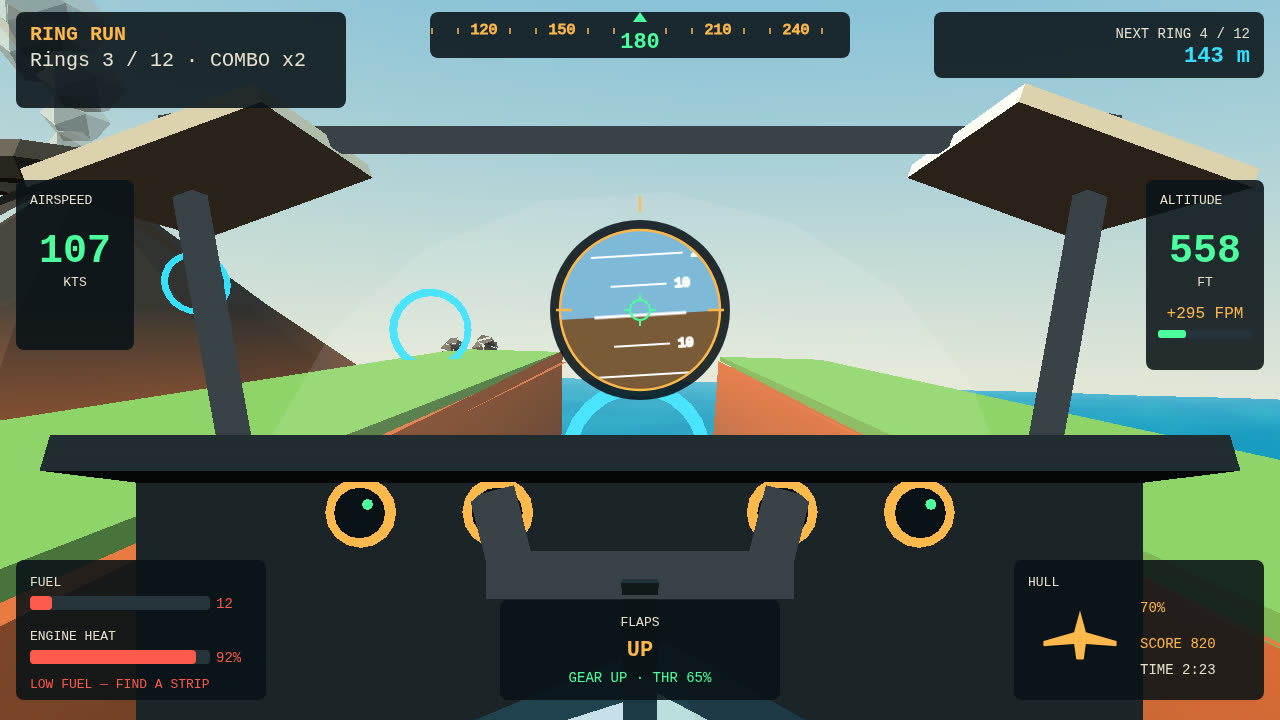
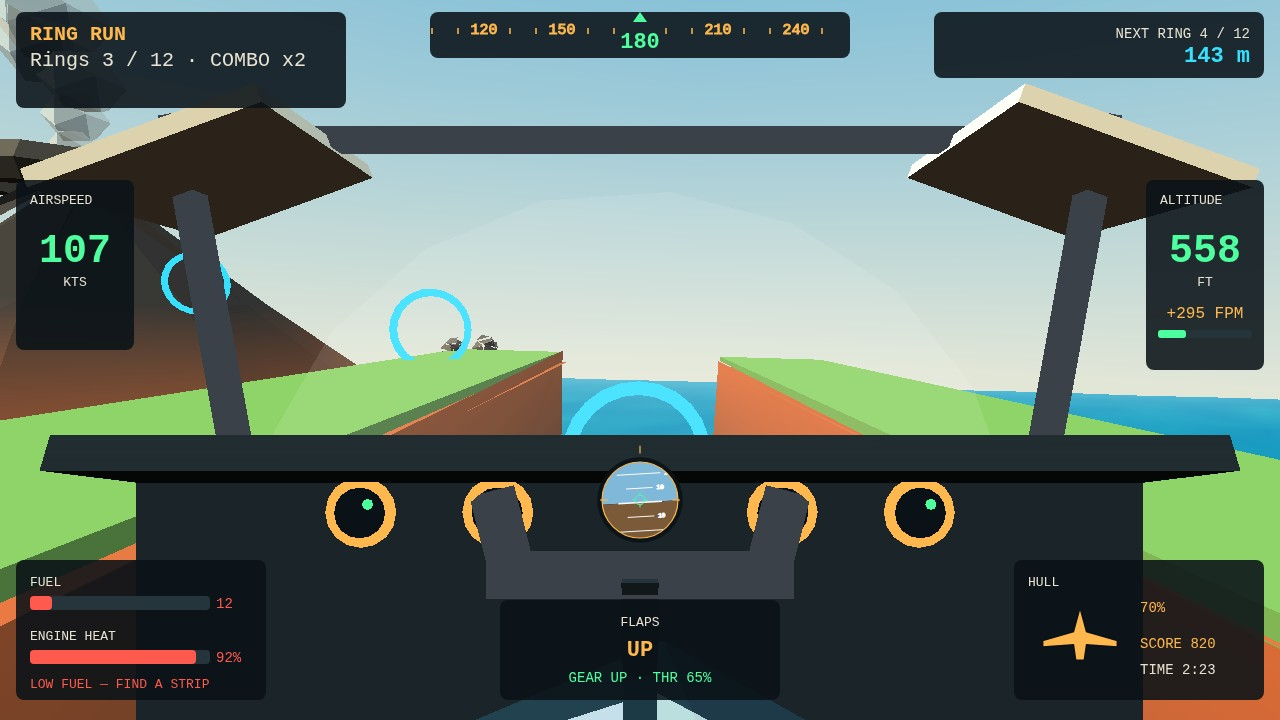
Fix shot 2: dock cockpit attitude indicator in dial row (640,500)

diff --git a/game/js/hud.js b/game/js/hud.js
@@ -8,7 +8,10 @@
 // v2 (Claude review of the v1 frames): the horizon disc no longer sits
 // big in the middle of a chase view, where it covered the plane and the
 // rings. In chase it docks small at bottom centre, above the flaps
-// panel; the full-size disc lives only in the cockpit view. The compass
+// panel. v2 light fix (26 Nov, shot 2): the cockpit view docked the disc
+// the same way, in the dial row at (640, 500) — the chase dock (640, 548)
+// would hide the middle of the yoke handle bar. The full-size centre
+// disc is gone from both views.
 // is a true linear tape (degrees spaced by degrees, not by label), the
 // mission line is 20 px and wraps inside its panel, the side tapes are
 // cut to their content, LOW ALT stays quiet when the gear is down and
@@ -56,9 +59,12 @@
       '<text id="waypointLabel" x="1250" y="38" font-size="14" fill="#E8E2D2">NEXT RING</text>' +
       '<text id="waypointDist" x="1250" y="62" font-size="22" fill="' + P.hudCyan + '" font-weight="bold">0 m</text>' +
       '</g>' +
-      // Artificial horizon. In the cockpit it is the big centre disc;
-      // in chase view the same disc docks small at bottom centre, above
-      // the flaps panel, so it can never cover the plane or a ring.
+      // Artificial horizon. The disc is docked small at bottom centre in
+      // BOTH views, so it can never cover the plane, a ring, or the
+      // forward view through the windshield: chase docks it at (640, 548)
+      // above the flaps panel; cockpit docks it at (640, 500) in the dial
+      // row, between the two inner dials — (640, 548) would hide the
+      // middle of the yoke handle bar (Faa 26 Nov 16:56, shot 2 defect).
       '<g id="horizonGroup">' +
       '<circle cx="640" cy="310" r="90" fill="' + P.bezel + '"/>' +
       '<g clip-path="url(#horizonClip)"><g id="horizonMove">' +
@@ -182,12 +188,18 @@
     el.pitchLadder.innerHTML = html;
   }
 
-  // Chase: the disc docks small at bottom centre (640, 548), radius 38.
-  // Cockpit: the disc is full size at the centre of the view.
+  // Both views dock the disc small at bottom centre (scale 0.475,
+  // radius 38): chase at (640, 548), just above the flaps panel;
+  // cockpit at (640, 500), in the dial row between the two inner dials.
+  // The full-size disc at dead centre used to cover the plane (chase)
+  // and the forward view through the windshield (cockpit) — Faa 26 Nov
+  // 16:18, 16:56, shot 2 defect. Cockpit cannot use the chase dock:
+  // (640, 548) hides the middle of the yoke handle bar.
   function applyView() {
     if (!el.horizonGroup) return;
     if (view === 'cockpit') {
-      el.horizonGroup.setAttribute('transform', '');
+      el.horizonGroup.setAttribute('transform',
+        'translate(640 500) scale(0.475) translate(-640 -310)');
     } else {
       el.horizonGroup.setAttribute('transform',
         'translate(640 548) scale(0.475) translate(-640 -310)');
